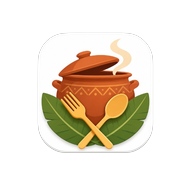
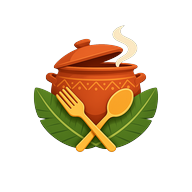
feat: initialize project structure with PWA configuration, authentication, and core recipe management components

diff --git a/src/app/(auth)/forgot-password/page.tsx b/src/app/(auth)/forgot-password/page.tsx
@@ -2,7 +2,8 @@
 
 import { useState } from "react"
 import Link from "next/link"
-import { MdRestaurant, MdCheck, MdMail } from "react-icons/md"
+import Image from "next/image"
+import { MdCheck } from "react-icons/md"
 
 export default function ForgotPasswordPage() {
   const [email, setEmail] = useState("")
@@ -39,8 +40,9 @@ export default function ForgotPasswordPage() {
   return (
     <div className="min-h-screen flex items-center justify-center px-4">
       <div className="w-full max-w-sm">
-        <Link href="/" className="block text-center mb-8 text-2xl">
-          <MdRestaurant className="inline-block" /> <span className="font-bold">Ano Pong <span className="text-red-600">Ulam?</span></span>
+        <Link href="/" className="block text-center mb-8">
+          <Image src="/logo-no-bg.png" alt="" width={96} height={96} className="inline-block mb-2" />
+          <div className="font-bold text-2xl">Ano Pong <span className="text-amber-600">Ulam?</span></div>
         </Link>
 
         {sent ? (
@@ -70,24 +72,21 @@ export default function ForgotPasswordPage() {
 
             <div>
               <label htmlFor="email" className="block text-sm font-medium mb-1">Email</label>
-              <div className="relative">
-                <MdMail className="absolute left-3 top-1/2 -translate-y-1/2 text-stone-400" />
-                <input
-                  id="email"
-                  type="email"
-                  required
-                  value={email}
-                  onChange={(e) => setEmail(e.target.value)}
-                  placeholder="[email redacted]"
-                  className="w-full border border-stone-300 rounded-xl pl-10 pr-3 py-2.5 text-sm focus:outline-none focus:ring-2 focus:ring-amber-500"
-                />
-              </div>
+              <input
+                id="email"
+                type="email"
+                required
+                value={email}
+                onChange={(e) => setEmail(e.target.value)}
+                placeholder="[email redacted]"
+                className="w-full border border-stone-300 rounded-lg px-3 py-2.5 text-sm focus:outline-none focus:ring-2 focus:ring-amber-500"
+              />
             </div>
 
             <button
               type="submit"
               disabled={loading || !email.trim()}
-              className="w-full bg-red-600 text-white py-2.5 rounded-xl font-medium hover:bg-red-700 disabled:opacity-50 transition-colors"
+              className="w-full bg-red-600 text-white py-2.5 rounded-lg font-medium hover:bg-red-700 disabled:opacity-50 transition-colors"
             >
               {loading ? "Sending..." : "Send Reset Link"}
             </button>

diff --git a/src/components/UserMenu.tsx b/src/components/UserMenu.tsx
@@ -2,8 +2,9 @@
 
 import { useState, useRef, useEffect } from "react"
 import { useSession, signOut } from "next-auth/react"
+import Image from "next/image"
 import Link from "next/link"
-import { MdPerson, MdSettings, MdLogout, MdArrowDropDown, MdRestaurant } from "react-icons/md"
+import { MdPerson, MdSettings, MdLogout, MdArrowDropDown } from "react-icons/md"
 
 export default function UserMenu() {
   const { data: session } = useSession()
@@ -22,7 +23,7 @@ export default function UserMenu() {
 
   if (!session?.user) return null
 
-  const initial = (session.user.name || "U")[0].toUpperCase()
+  const avatarUrl = session.user.avatarUrl
 
   return (
     <div className="relative" ref={dropdownRef}>
@@ -30,9 +31,21 @@ export default function UserMenu() {
         onClick={() => setOpen(!open)}
         className="flex items-center gap-1.5 text-sm text-stone-700 hover:text-amber-600 transition-colors"
       >
-        <span className="w-8 h-8 rounded-full bg-red-600 text-white flex items-center justify-center text-sm font-bold">
-          {initial}
-        </span>
+        {avatarUrl ? (
+          <div className="w-8 h-8 rounded-full overflow-hidden">
+            <Image
+              src={avatarUrl}
+              alt=""
+              width={32}
+              height={32}
+              className="w-full h-full object-cover"
+            />
+          </div>
+        ) : (
+          <span className="w-8 h-8 rounded-full bg-stone-200 text-stone-500 flex items-center justify-center">
+            <MdPerson className="text-lg" />
+          </span>
+        )}
         <MdArrowDropDown className={`text-lg transition-transform ${open ? "rotate-180" : ""}`} />
       </button>
 

diff --git a/src/types/next-auth.d.ts b/src/types/next-auth.d.ts
@@ -1,0 +1,18 @@
+import "next-auth"
+
+declare module "next-auth" {
+  interface Session {
+    user: {
+      id: string
+      name: string
+      email: string
+      avatarUrl?: string | null
+      image?: string | null
+    }
+  }
+
+  interface JWT {
+    avatarUrl?: string | null
+    username?: string
+  }
+}

diff --git a/src/lib/auth.ts b/src/lib/auth.ts
@@ -48,11 +48,21 @@ export const { handlers, auth, signIn, signOut } = NextAuth({
       if (user) {
         token.id = user.id
       }
+      const dbUser = await prisma.user.findUnique({
+        where: { id: token.id as string },
+        select: { avatarUrl: true, username: true },
+      })
+      if (dbUser) {
+        token.avatarUrl = dbUser.avatarUrl
+        token.username = dbUser.username
+      }
       return token
     },
     async session({ session, token }) {
       if (session.user) {
         session.user.id = token.id as string
+        session.user.avatarUrl = token.avatarUrl as string | undefined
+        session.user.name = token.username as string
       }
       return session
     },

diff --git a/src/app/page.tsx b/src/app/page.tsx
@@ -33,13 +33,13 @@ export default async function HomePage() {
             <div className="flex gap-3 justify-center">
               <Link
                 href="/recipes"
-                className="bg-red-600 text-white px-6 py-3 rounded-lg font-medium hover:bg-red-700 transition-colors"
+                className="bg-red-600 text-white px-6 py-3 rounded-full font-medium hover:bg-red-700 transition-colors"
               >
                 Browse Recipes
               </Link>
               <Link
                 href="/recipes/new"
-                className="bg-white text-stone-800 px-6 py-3 rounded-lg font-medium border border-stone-300 hover:bg-stone-50 transition-colors"
+                className="bg-white text-stone-800 px-6 py-3 rounded-full font-medium border border-stone-300 hover:bg-stone-50 transition-colors"
               >
                 Share Your Recipe
               </Link>
@@ -75,14 +75,14 @@ export default async function HomePage() {
             {session?.user ? (
               <Link
                 href="/recipes/new"
-                className="inline-block bg-red-600 text-white px-6 py-3 rounded-lg font-medium hover:bg-red-700 transition-colors"
+                className="inline-block bg-red-600 text-white px-6 py-3 rounded-full font-medium hover:bg-red-700 transition-colors"
               >
                 Share Your First Recipe
               </Link>
             ) : (
               <Link
                 href="/login"
-                className="inline-block bg-red-600 text-white px-6 py-3 rounded-lg font-medium hover:bg-red-700 transition-colors"
+                className="inline-block bg-red-600 text-white px-6 py-3 rounded-full font-medium hover:bg-red-700 transition-colors"
               >
                 Sign In to Share
               </Link>

diff --git a/src/app/(auth)/login/page.tsx b/src/app/(auth)/login/page.tsx
@@ -39,8 +39,8 @@ export default function LoginPage() {
     <div className="min-h-screen flex items-center justify-center px-4">
       <div className="w-full max-w-sm">
         <Link href="/" className="block text-center mb-8">
-          <Image src="/logo-removebg-preview.png" alt="" width={40} height={40} className="inline-block align-middle mr-2" />
-          <span className="font-bold text-2xl align-middle">Ano Pong <span className="text-amber-600">Ulam?</span></span>
+          <Image src="/logo-no-bg.png" alt="" width={96} height={96} className="inline-block mb-2" />
+          <div className="font-bold text-2xl">Ano Pong <span className="text-amber-600">Ulam?</span></div>
         </Link>
 
         <form onSubmit={handleSubmit} className="bg-white rounded-xl border border-stone-200 p-6 space-y-4">

diff --git a/src/app/(auth)/register/page.tsx b/src/app/(auth)/register/page.tsx
@@ -59,8 +59,8 @@ export default function RegisterPage() {
     <div className="min-h-screen flex items-center justify-center px-4">
       <div className="w-full max-w-sm">
         <Link href="/" className="block text-center mb-8">
-          <Image src="/logo-removebg-preview.png" alt="" width={40} height={40} className="inline-block align-middle mr-2" />
-          <span className="font-bold text-2xl align-middle">Ano Pong <span className="text-amber-600">Ulam?</span></span>
+          <Image src="/logo-no-bg.png" alt="" width={96} height={96} className="inline-block mb-2" />
+          <div className="font-bold text-2xl">Ano Pong <span className="text-amber-600">Ulam?</span></div>
         </Link>
 
         <form onSubmit={handleSubmit} className="bg-white rounded-xl border border-stone-200 p-6 space-y-4">

diff --git a/src/components/Header.tsx b/src/components/Header.tsx
@@ -44,7 +44,7 @@ export default function Header() {
         <div className="mx-auto max-w-6xl px-4 h-16 flex items-center justify-between">
           <div className="flex items-center gap-8">
             <Link href="/" className="flex items-center gap-2" onClick={closeMenu}>
-              <Image src="/logo-removebg-preview.png" alt="" width={28} height={28} className="rounded" />
+              <Image src="/logo-no-bg.png" alt="" width={36} height={36} className="rounded" />
               <span className="font-bold text-lg tracking-tight">
                 Ano Pong <span className="text-red-600">Ulam?</span>
               </span>